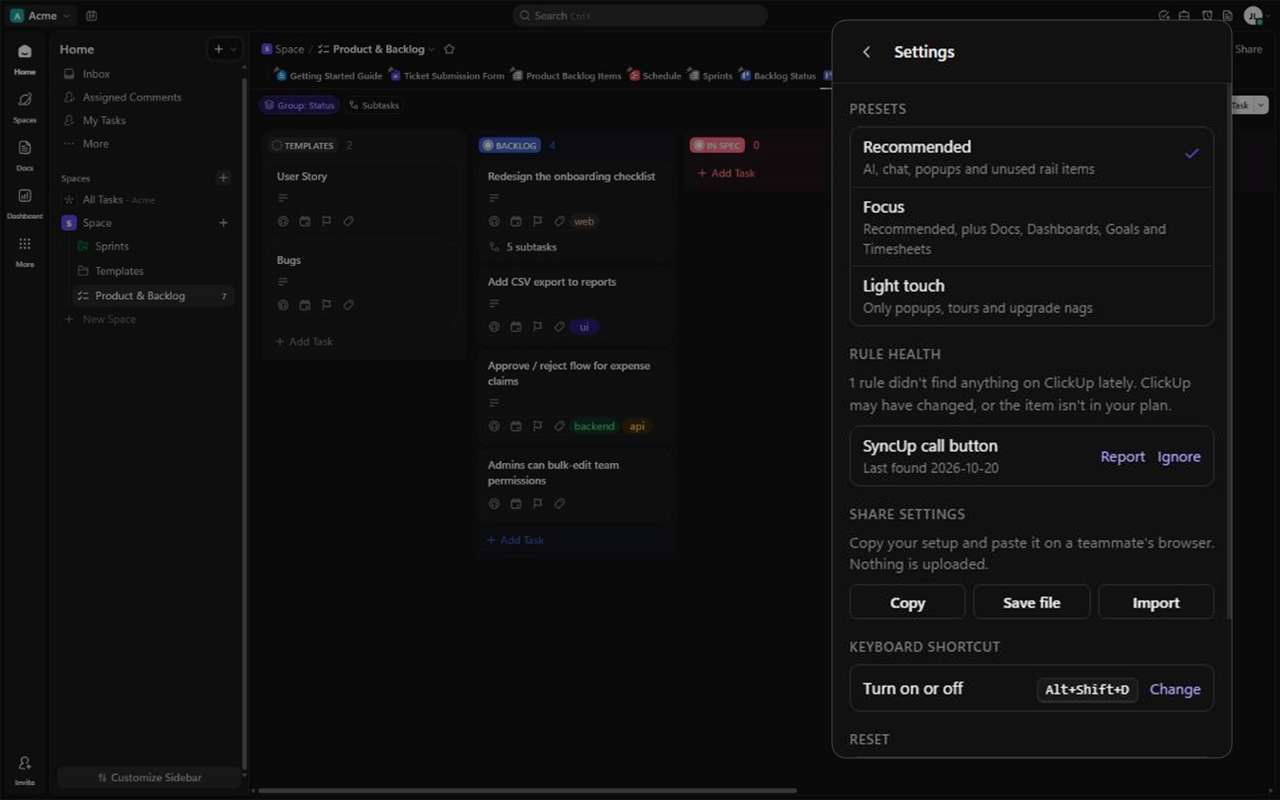
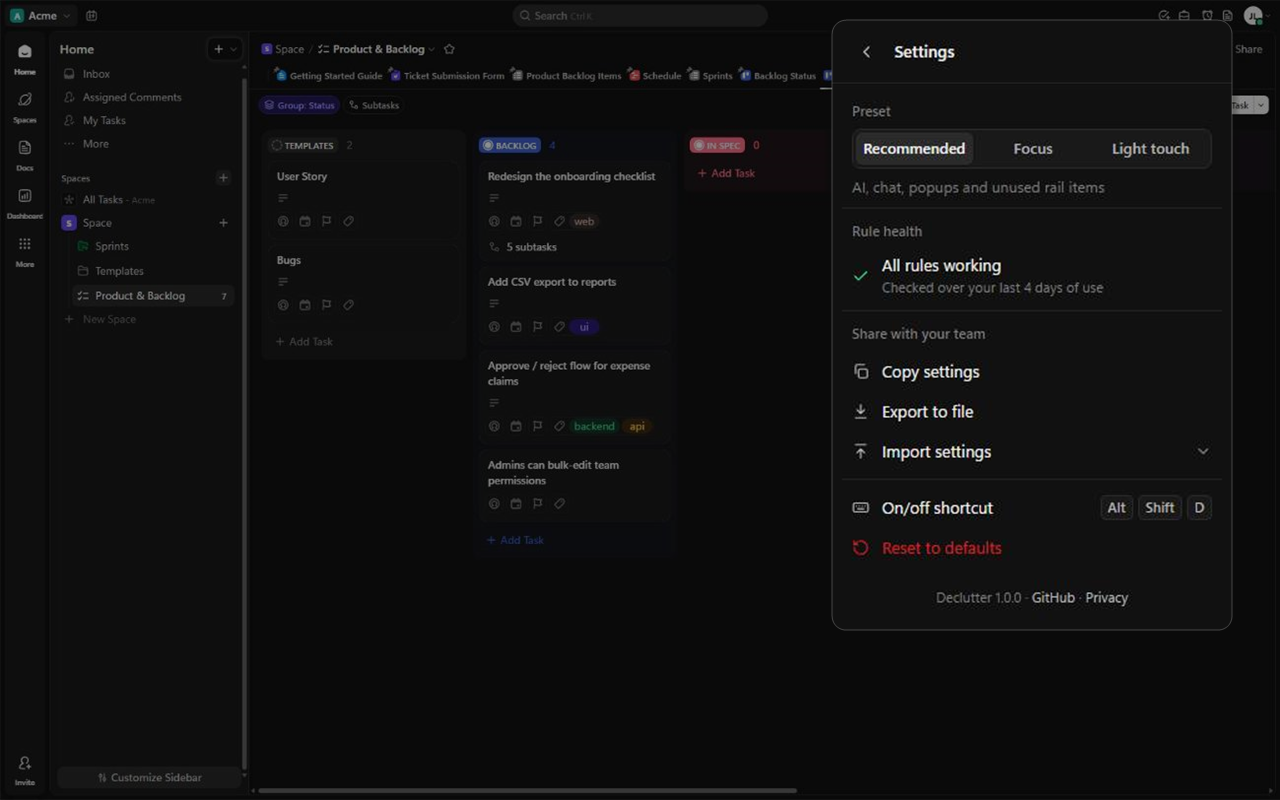
Redesign the settings view as a ClickUp-style menu
- Segmented control for presets with a one-line description
  ("Custom setup" when nothing matches)
- Icon menu rows for sharing (copy, export, import with inline box),
  shortcut (key chips) and a red Reset row with in-place confirm
- Rule health as status rows: check / clock / amber dot, with icon
  buttons for Report and Ignore
- Sentence-case section labels and dividers instead of boxed cards
- Store screenshot 5 updated

diff --git a/popup.html b/popup.html
@@ -23,6 +23,7 @@
       --accent-fg: #a89fff;
       --danger: #e5484d;
       --warn: #ffb224;
+      --ok: #3dd68c;
       color-scheme: dark;
     }
     @media (prefers-color-scheme: light) {
@@ -39,6 +40,7 @@
         --faint: #8f8f8f;
         --placeholder: #a0a0a0;
         --accent-fg: #6347ea;
+        --ok: #18794e;
         color-scheme: light;
       }
     }
@@ -155,33 +157,63 @@
     /* views */
     [hidden] { display: none !important; }
     #view-settings { flex: 1; min-height: 0; display: flex; flex-direction: column; }
-    .settings { flex: 1; overflow-y: auto; padding: 4px 14px 14px; scrollbar-width: thin; scrollbar-color: var(--line) transparent; }
-    .settings h3 { margin: 14px 0 6px; font-size: 11px; font-weight: 600; color: var(--faint); text-transform: uppercase; letter-spacing: .04em; }
-    .settings h3:first-child { margin-top: 8px; }
-    .hint { margin: 0 0 8px; font-size: 12px; color: var(--faint); }
-    .card { border: 1px solid var(--line); border-radius: 8px; overflow: hidden; }
-    .row { display: flex; align-items: center; gap: 10px; min-height: 36px; padding: 6px 10px; }
-    .row + .row { border-top: 1px solid var(--line-soft); }
-    .row .grow { flex: 1; min-width: 0; }
-    .row .sub { display: block; font-size: 11px; color: var(--faint); }
-    button.row { width: 100%; border: 0; background: none; text-align: left; cursor: pointer; }
-    button.row:hover { background: var(--hover); }
-    .check { color: var(--accent); visibility: hidden; }
-    .row.current .check { visibility: visible; }
-    .btn-row { display: flex; flex-wrap: wrap; gap: 6px; }
-    .btn-row .btn { flex: 1; }
-    .link { border: 0; background: none; padding: 0; color: var(--accent-fg); cursor: pointer; font-size: 12px; }
-    .link:hover { text-decoration: underline; }
+    /* settings: ClickUp-style menu rows */
+    .settings { flex: 1; overflow-y: auto; padding: 4px 8px 10px; scrollbar-width: thin; scrollbar-color: var(--line) transparent; }
+    .s-group { padding: 6px 0; }
+    .s-group + .s-group { border-top: 1px solid var(--line-soft); }
+    .s-title { padding: 4px 8px 6px; font-size: 11px; font-weight: 500; color: var(--faint); }
+    .s-desc { margin: 6px 8px 2px; font-size: 12px; color: var(--faint); }
+
+    .seg { display: flex; gap: 2px; margin: 0 8px; padding: 2px; border-radius: 7px; background: var(--surface); border: 1px solid var(--line); }
+    .seg button {
+      flex: 1; height: 26px; border: 0; border-radius: 5px; background: none; cursor: pointer;
+      color: var(--muted); font-size: 12px; font-weight: 500; transition: background .12s ease, color .12s ease;
+    }
+    .seg button:hover { color: var(--fg); }
+    .seg button[aria-checked="true"] { background: var(--surface-hover); color: var(--fg); box-shadow: 0 1px 2px rgba(0, 0, 0, .25); }
+
+    .mrow {
+      display: flex; align-items: center; gap: 10px; width: 100%; min-height: 32px; padding: 4px 8px;
+      border: 0; border-radius: 6px; background: none; color: var(--fg); text-align: left; font-size: 13px;
+    }
+    button.mrow { cursor: pointer; }
+    button.mrow:hover { background: var(--hover); }
+    .mrow > svg:first-child { color: var(--muted); }
+    .mrow .label { flex: 1; min-width: 0; }
+    .mrow .label small { display: block; font-size: 11px; color: var(--faint); }
+    .mrow .trail { margin-left: auto; display: flex; align-items: center; gap: 4px; color: var(--faint); font-size: 12px; }
+    .mrow.danger, .mrow.danger > svg:first-child { color: var(--danger); }
+    .mrow > span:first-child:not(.label) { width: 14px; display: grid; place-items: center; flex: none; }
+    .mrow .ok-icon { color: var(--ok); }
+    .mrow .ok-muted { color: var(--faint); }
+    .mrow.confirm { background: color-mix(in srgb, var(--danger) 14%, transparent); }
+    .mrow .warn-icon { width: 14px; display: grid; place-items: center; }
+    .mrow .warn-icon::before { content: ""; width: 7px; height: 7px; border-radius: 50%; background: var(--warn); }
+    .ib { width: 24px; height: 24px; display: grid; place-items: center; border: 0; border-radius: 5px; background: none; color: var(--faint); cursor: pointer; }
+    .ib:hover { background: var(--surface-hover); color: var(--fg); }
+
+    .chev-r svg { transition: transform .12s ease; }
+    #show-import[aria-expanded="true"] .chev-r svg { transform: rotate(180deg); }
+    .import { padding: 4px 8px 6px; }
+    .import-actions { display: flex; justify-content: flex-end; gap: 6px; margin-top: 6px; }
     textarea {
-      width: 100%; height: 90px; margin-top: 8px; padding: 8px; resize: vertical; border-radius: 6px;
+      display: block; width: 100%; height: 84px; padding: 8px; resize: none; border-radius: 6px;
       border: 1px solid var(--line); background: var(--bg); color: var(--fg);
       font: 11px/1.4 ui-monospace, "Cascadia Code", Consolas, monospace; outline: none;
     }
     textarea:focus { border-color: var(--accent); }
-    kbd { padding: 2px 6px; border: 1px solid var(--line); border-bottom-width: 2px; border-radius: 5px; font: 11px ui-monospace, Consolas, monospace; color: var(--fg); background: var(--surface); }
-    .ok { color: var(--muted); font-size: 12px; }
-    .note { margin-top: 8px; font-size: 12px; color: var(--muted); }
+    textarea::placeholder { color: var(--placeholder); }
+    kbd {
+      min-width: 20px; height: 20px; padding: 0 5px; display: inline-grid; place-items: center;
+      border: 1px solid var(--line); border-radius: 4px; background: var(--surface);
+      font: 500 11px/1 -apple-system, BlinkMacSystemFont, "Segoe UI", sans-serif; color: var(--muted);
+    }
+    .note { margin: 4px 8px 0; font-size: 12px; color: var(--ok); }
     .note.error { color: var(--danger); }
+    .note:empty { display: none; }
+    .link { border: 0; background: none; padding: 0; color: var(--muted); cursor: pointer; font-size: 11px; }
+    .link:hover { color: var(--fg); text-decoration: underline; }
+    .about { margin: 10px 0 0; text-align: center; font-size: 11px; color: var(--faint); }
     .chip-name { flex: 1; min-width: 0; }
     .chip-name b { display: block; font-weight: 400; color: var(--fg); white-space: nowrap; overflow: hidden; text-overflow: ellipsis; cursor: text; }
     .chip-name input { width: 100%; height: 22px; padding: 0 6px; border: 1px solid var(--accent); border-radius: 5px; background: var(--bg); color: var(--fg); font: inherit; outline: none; }
@@ -229,44 +261,56 @@
       <div class="title"><b>Settings</b></div>
     </header>
     <div class="settings">
-      <h3>Presets</h3>
-      <div class="card" id="presets"></div>
+      <section class="s-group">
+        <div class="s-title">Preset</div>
+        <div class="seg" id="presets" role="radiogroup" aria-label="Preset"></div>
+        <p class="s-desc" id="preset-desc"></p>
+      </section>
 
-      <h3>Rule health</h3>
-      <div id="health"></div>
+      <section class="s-group">
+        <div class="s-title">Rule health</div>
+        <div id="health"></div>
+      </section>
 
-      <h3>Share settings</h3>
-      <p class="hint">Copy your setup and paste it on a teammate's browser. Nothing is uploaded.</p>
-      <div class="btn-row">
-        <button class="btn" id="copy">Copy</button>
-        <button class="btn" id="save-file">Save file</button>
-        <button class="btn" id="show-import">Import</button>
-      </div>
-      <div id="import-box" hidden>
-        <textarea id="import-text" placeholder="Paste settings here" spellcheck="false"></textarea>
-        <div class="btn-row" style="margin-top:6px">
-          <button class="btn primary" id="apply-import">Apply</button>
-          <button class="btn" id="load-file">Load file</button>
+      <section class="s-group">
+        <div class="s-title">Share with your team</div>
+        <button class="mrow" id="copy">
+          <svg width="14" height="14" viewBox="0 0 24 24" fill="none" stroke="currentColor" stroke-width="2" stroke-linecap="round" stroke-linejoin="round"><rect x="9" y="9" width="12" height="12" rx="2"/><path d="M5 15V5a2 2 0 0 1 2-2h10"/></svg>
+          <span class="label">Copy settings</span>
+        </button>
+        <button class="mrow" id="save-file">
+          <svg width="14" height="14" viewBox="0 0 24 24" fill="none" stroke="currentColor" stroke-width="2" stroke-linecap="round" stroke-linejoin="round"><path d="M12 3v12M7 10l5 5 5-5M5 21h14"/></svg>
+          <span class="label">Export to file</span>
+        </button>
+        <button class="mrow" id="show-import" aria-expanded="false">
+          <svg width="14" height="14" viewBox="0 0 24 24" fill="none" stroke="currentColor" stroke-width="2" stroke-linecap="round" stroke-linejoin="round"><path d="M12 21V9M7 14l5-5 5 5M5 3h14"/></svg>
+          <span class="label">Import settings</span>
+          <span class="trail chev-r"><svg width="14" height="14" viewBox="0 0 24 24" fill="none" stroke="currentColor" stroke-width="2" stroke-linecap="round" stroke-linejoin="round"><path d="m6 9 6 6 6-6"/></svg></span>
+        </button>
+        <div class="import" id="import-box" hidden>
+          <textarea id="import-text" placeholder="Paste settings from a teammate" spellcheck="false"></textarea>
+          <div class="import-actions">
+            <button class="btn" id="load-file">Load file</button>
+            <button class="btn primary" id="apply-import" style="flex:none">Apply</button>
+          </div>
+          <input type="file" id="file-input" accept=".json,application/json" hidden>
         </div>
-        <input type="file" id="file-input" accept=".json,application/json" hidden>
-      </div>
-      <div class="note" id="share-note"></div>
+        <p class="note" id="share-note"></p>
+      </section>
 
-      <h3>Keyboard shortcut</h3>
-      <div class="card"><div class="row">
-        <span class="grow">Turn on or off</span>
-        <span id="shortcut"></span>
-        <button class="link" id="change-shortcut">Change</button>
-      </div></div>
+      <section class="s-group">
+        <button class="mrow" id="change-shortcut" title="Change in Chrome's shortcut settings">
+          <svg width="14" height="14" viewBox="0 0 24 24" fill="none" stroke="currentColor" stroke-width="2" stroke-linecap="round" stroke-linejoin="round"><rect x="2" y="6" width="20" height="12" rx="2"/><path d="M6 10h.01M10 10h.01M14 10h.01M18 10h.01M8 14h8"/></svg>
+          <span class="label">On/off shortcut</span>
+          <span class="trail" id="shortcut"></span>
+        </button>
+        <button class="mrow danger" id="reset">
+          <svg width="14" height="14" viewBox="0 0 24 24" fill="none" stroke="currentColor" stroke-width="2" stroke-linecap="round" stroke-linejoin="round"><path d="M3 12a9 9 0 1 0 3-6.7L3 8"/><path d="M3 3v5h5"/></svg>
+          <span class="label" id="reset-label">Reset to defaults</span>
+        </button>
+      </section>
 
-      <h3>Reset</h3>
-      <div class="card"><div class="row">
-        <span class="grow">Restore defaults<span class="sub">Turns every rule back to default and removes picked elements.</span></span>
-        <button id="reset" class="btn">Reset</button>
-      </div></div>
-
-      <h3>About</h3>
-      <p class="hint" id="about"></p>
+      <p class="about" id="about"></p>
     </div>
   </div>
 

diff --git a/popup.js b/popup.js
@@ -177,53 +177,64 @@ function showSettings(open) {
 $('open-settings').onclick = () => showSettings(true);
 $('close-settings').onclick = () => showSettings(false);
 
+const FLAG = SVG('<path d="M4 22V4a1 1 0 0 1 1-1h11l-2 4 2 4H5"/>');
+const EYE_OFF = SVG('<path d="M3 3l18 18"/><path d="M10.6 5.1A10 10 0 0 1 12 5c5 0 9 4.5 10 7-.4 1-1.2 2.3-2.4 3.5M6.6 6.6C4.4 8 2.8 10.2 2 12c1 2.5 5 7 10 7 1.8 0 3.4-.6 4.8-1.4"/><path d="M9.9 9.9a3 3 0 0 0 4.2 4.2"/>');
+const CLOCK = SVG('<circle cx="12" cy="12" r="9"/><path d="M12 7v5l3 2"/>');
+const fmtDay = (d) => new Date(`${d}T00:00`).toLocaleDateString(undefined, { month: 'short', day: 'numeric' });
+
 function renderSettings() {
-  // Presets: the one matching the current setup gets a check mark.
-  const presets = $('presets');
-  presets.replaceChildren();
+  // Presets: segmented control; none is selected when the setup is custom.
+  const seg = $('presets');
+  seg.replaceChildren();
+  let currentPreset = null;
   for (const p of CUD_PRESETS) {
     const map = cudPresetMap(p);
     const current = CUD_RULES.every((r) => isOn(r) === map[r.id]);
-    const row = el('button', { className: 'row' + (current ? ' current' : '') },
-      el('span', { className: 'grow', textContent: p.label }, el('span', { className: 'sub', textContent: p.desc })),
-      html('span', 'check', CHECK));
-    row.onclick = () => { state.enabled = map; state.off = false; save(); render(); };
-    presets.append(row);
+    if (current) currentPreset = p;
+    const b = el('button', { textContent: p.label, role: 'radio', ariaChecked: String(current), title: p.desc });
+    b.onclick = () => { state.enabled = map; state.off = false; save(); render(); };
+    seg.append(b);
   }
+  $('preset-desc').textContent = currentPreset ? currentPreset.desc : 'Custom setup';
 
   // Rule health
   const box = $('health');
   box.replaceChildren();
   const broken = needsUpdate();
   const usedDays = ((health.days && health.days.app) || []).length;
+  const status = (icon, iconClass, label, sub, trail) => {
+    const row = el('div', { className: 'mrow' }, html('span', iconClass, icon), el('span', { className: 'label', textContent: label }, sub ? el('small', { textContent: sub }) : ''));
+    if (trail) row.append(trail);
+    return row;
+  };
   if (broken.length) {
-    box.append(el('p', { className: 'hint', textContent: `${broken.length} rule${broken.length === 1 ? '' : 's'} didn't find anything on ClickUp lately. ClickUp may have changed, or the item isn't in your plan.` }));
-    const card = el('div', { className: 'card' });
     for (const b of broken) {
-      const report = el('button', { className: 'link', textContent: 'Report' });
+      const report = html('button', 'ib', FLAG);
+      report.title = 'Report on GitHub';
       report.onclick = () => openTab(`${REPO}/issues/new?${new URLSearchParams({
         title: `Rule needs updating: ${b.label}`,
         body: `Rule \`${b.id}\` hasn't matched anything lately.\n\nExtension version: ${chrome.runtime.getManifest().version}`,
       })}`);
-      const ignore = el('button', { className: 'link', textContent: 'Ignore' });
+      const ignore = html('button', 'ib', EYE_OFF);
+      ignore.title = 'Ignore this rule';
       ignore.onclick = () => { state.ignored.push(b.id); save(); render(); };
-      card.append(el('div', { className: 'row' },
-        el('span', { className: 'grow', textContent: b.label }, el('span', { className: 'sub', textContent: b.seen ? `Last found ${b.seen}` : 'Not found yet' })),
-        report, ignore));
+      box.append(status('', 'warn-icon', b.label, b.seen ? `Not found since ${fmtDay(b.seen)}` : 'Not found yet', el('span', { className: 'trail' }, report, ignore)));
     }
-    box.append(card);
+    box.append(el('p', { className: 's-desc', textContent: 'ClickUp may have changed, or the item isn\'t in your plan.' }));
+  } else if (usedDays < 3) {
+    box.append(status(CLOCK, 'ok-muted', 'Checking rules', 'Verified as you use ClickUp over the next few days'));
   } else {
-    box.append(el('p', { className: 'ok', textContent: usedDays < 3 ? 'Checking. Each rule is verified as you use ClickUp over the next few days.' : 'All rules are finding their ClickUp elements.' }));
+    box.append(status(CHECK, 'ok-icon', 'All rules working', `Checked over your last ${Math.min(usedDays, 14)} days of use`));
   }
   if (state.ignored.length) {
-    const unignore = el('button', { className: 'link', textContent: `Stop ignoring ${state.ignored.length}` });
+    const unignore = el('button', { className: 'link', textContent: `${state.ignored.length} ignored · Show again` });
     unignore.onclick = () => { state.ignored = []; save(); render(); };
-    box.append(el('p', { className: 'hint' }, unignore));
+    box.append(el('p', { className: 's-desc' }, unignore));
   }
 
   chrome.commands.getAll((cmds) => {
     const c = cmds.find((x) => x.name === 'toggle-declutter');
-    $('shortcut').replaceChildren(c && c.shortcut ? el('kbd', { textContent: c.shortcut }) : el('span', { className: 'ok', textContent: 'Not set' }));
+    $('shortcut').replaceChildren(...(c && c.shortcut ? c.shortcut.split('+').map((k) => el('kbd', { textContent: k })) : [el('span', { textContent: 'Not set' })]));
   });
 
   const v = chrome.runtime.getManifest().version;
@@ -231,7 +242,7 @@ function renderSettings() {
   gh.onclick = () => openTab(REPO);
   const privacy = el('button', { className: 'link', textContent: 'Privacy' });
   privacy.onclick = () => openTab(`${REPO}/blob/main/PRIVACY.md`);
-  $('about').replaceChildren(`Version ${v} · `, gh, ' · ', privacy);
+  $('about').replaceChildren(`Declutter ${v} · `, gh, ' · ', privacy);
 }
 
 $('change-shortcut').onclick = () => openTab('chrome://extensions/shortcuts');
@@ -269,7 +280,13 @@ $('save-file').onclick = () => {
   setTimeout(() => URL.revokeObjectURL(url), 1000);
   note('Saved.');
 };
-$('show-import').onclick = () => { $('import-box').hidden = !$('import-box').hidden; note(''); };
+$('show-import').onclick = () => {
+  const open = $('import-box').hidden;
+  $('import-box').hidden = !open;
+  $('show-import').ariaExpanded = String(open);
+  note('');
+  if (open) $('import-text').focus();
+};
 $('load-file').onclick = () => $('file-input').click();
 $('file-input').onchange = async (e) => {
   const file = e.target.files[0];
@@ -282,6 +299,7 @@ $('apply-import').onclick = () => {
     save();
     $('import-text').value = '';
     $('import-box').hidden = true;
+    $('show-import').ariaExpanded = 'false';
     render();
     note(`Imported ${Object.keys(state.enabled).length} rule settings and ${state.custom.length} picked element${state.custom.length === 1 ? '' : 's'}.`);
   } catch (err) {
@@ -293,15 +311,16 @@ $('apply-import').onclick = () => {
 let resetTimer;
 $('reset').onclick = () => {
   const btn = $('reset');
+  const label = $('reset-label');
   if (!btn.classList.contains('confirm')) {
     btn.classList.add('confirm');
-    btn.textContent = 'Confirm';
-    resetTimer = setTimeout(() => { btn.classList.remove('confirm'); btn.textContent = 'Reset'; }, 3000);
+    label.textContent = 'Click again to reset everything';
+    resetTimer = setTimeout(() => { btn.classList.remove('confirm'); label.textContent = 'Reset to defaults'; }, 3000);
     return;
   }
   clearTimeout(resetTimer);
   btn.classList.remove('confirm');
-  btn.textContent = 'Reset';
+  label.textContent = 'Reset to defaults';
   state = cudState();
   save();
   render();
